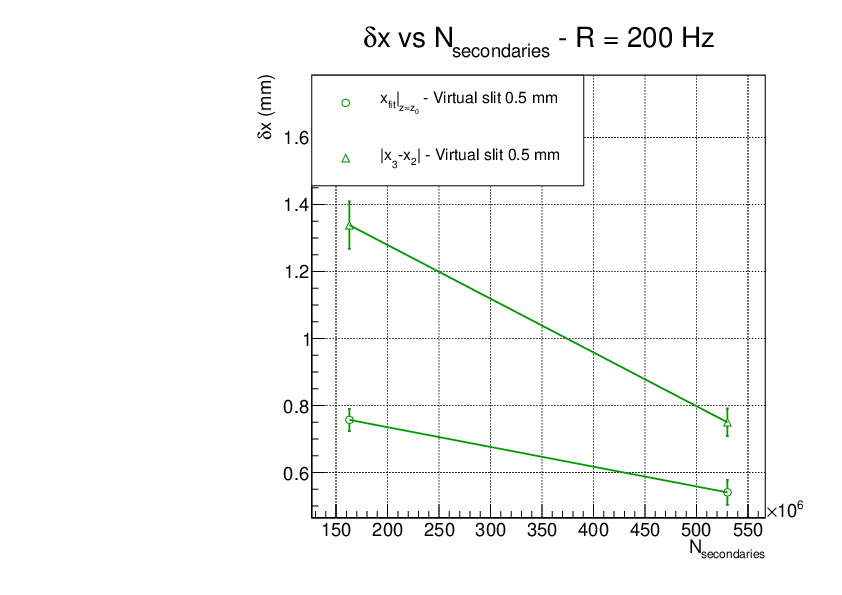
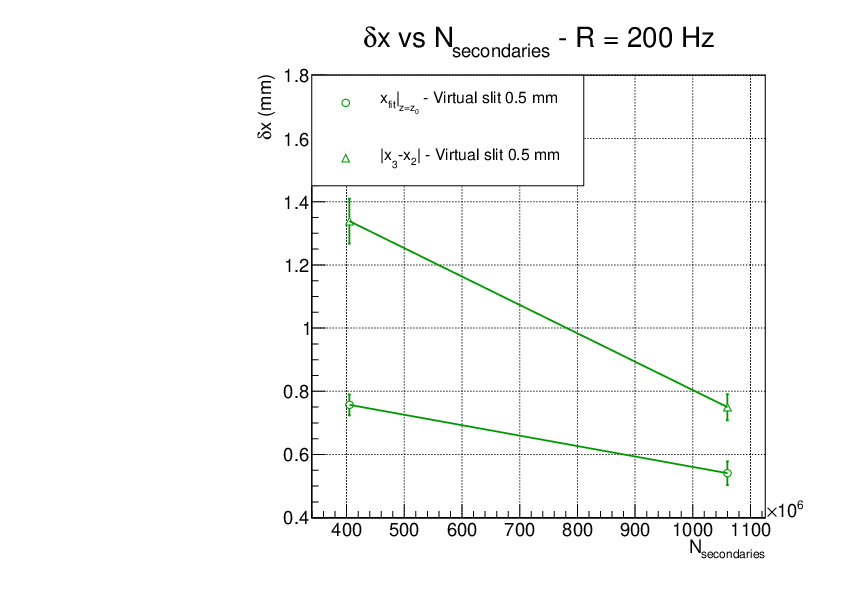
analysis updates - instrinsic tracker resolution

diff --git a/Analysis_draft/plot_resolution_vs_primaries.C b/Analysis_draft/plot_resolution_vs_primaries.C
@@ -33,7 +33,7 @@ void plot_resolution_vs_primaries(){
 // Needed variables
    Int_t p = 0;
    Double_t np[2] = {95834.,203948.};                                       // Number of primary electrons - obtained dividing energy loss (by LISE++) and the average ioization potential (23.4 eV)
-   Double_t sp[2] = {1.63E+08,5.301E+08};                                                     // Number of secondary electrons - obtained converting the digitizer signal (in mV) in # e- -> digi * 61e-3/7.24e-5    
+   Double_t sp[2] = {2.98E+08,1.0E+9};                                                     // Number of secondary electrons - obtained converting the digitizer signal (in mV) in # e- -> digi * 61e-3/7.24e-5    
    Double_t resol_2[8] = {1.01453,1.20145,1.37213,1.4087,1.00553,1.16879,1.28275,1.33634};                                            // resolution array, measured in mm
    Double_t resol_1[8] = {0.78438,0.839794,0.955735,0.991787,0.74615,0.759098,0.823552,0.891991};                                                // resolution array, measured in mm
    Double_t resol_05[8] = {0.680787,0.757098,0.780148,0.796688,0.550655,0.540796,0.612535,0.668728};                                               // resolution array, measured in mm
@@ -55,7 +55,7 @@ void plot_resolution_vs_primaries(){
    Double_t resolDiff_err[2] = {0.};
    
    TGraphErrors *gr_r = new TGraphErrors();     
-   gr_r->SetTitle("#deltax vs N_{secondaries} - R = 20 Hz");
+   gr_r->SetTitle("#deltax vs N_{secondaries} - R = 3000 Hz");
    gr_r->GetXaxis()->SetTitle("N_{secondaries}");
    gr_r->GetYaxis()->SetTitle("#deltax (mm)");
    gr_r->SetMarkerColor(kGreen+2);
@@ -66,7 +66,7 @@ void plot_resolution_vs_primaries(){
    gr_r->SetLineColor(kGreen+2);
    
    TGraphErrors *gr_rDiff = new TGraphErrors();     
-   gr_rDiff->SetTitle("#deltax vs N_{secondaries} - R = 20 Hz");
+   gr_rDiff->SetTitle("#deltax vs N_{secondaries} - R = 3000 Hz");
    gr_rDiff->GetXaxis()->SetTitle("N_{secondaries}");
    gr_rDiff->GetYaxis()->SetTitle("#deltax (mm)");
    gr_rDiff->SetMarkerColor(kGreen+2);
@@ -83,7 +83,7 @@ void plot_resolution_vs_primaries(){
       resolDiff_2_err[i] = resolDiff_2_err[i]/sqrt(2);
       resolDiff_1_err[i] = resolDiff_1_err[i]/sqrt(2);
       resolDiff_05_err[i] = resolDiff_05_err[i]/sqrt(2);
-      if(i==0 || i==4){
+      if(i==3 || i==7){
          cout << "p: " << p << endl; 
          resol[p] = resol_05[i];
          resol_err[p] = resol_05_err[i];  
